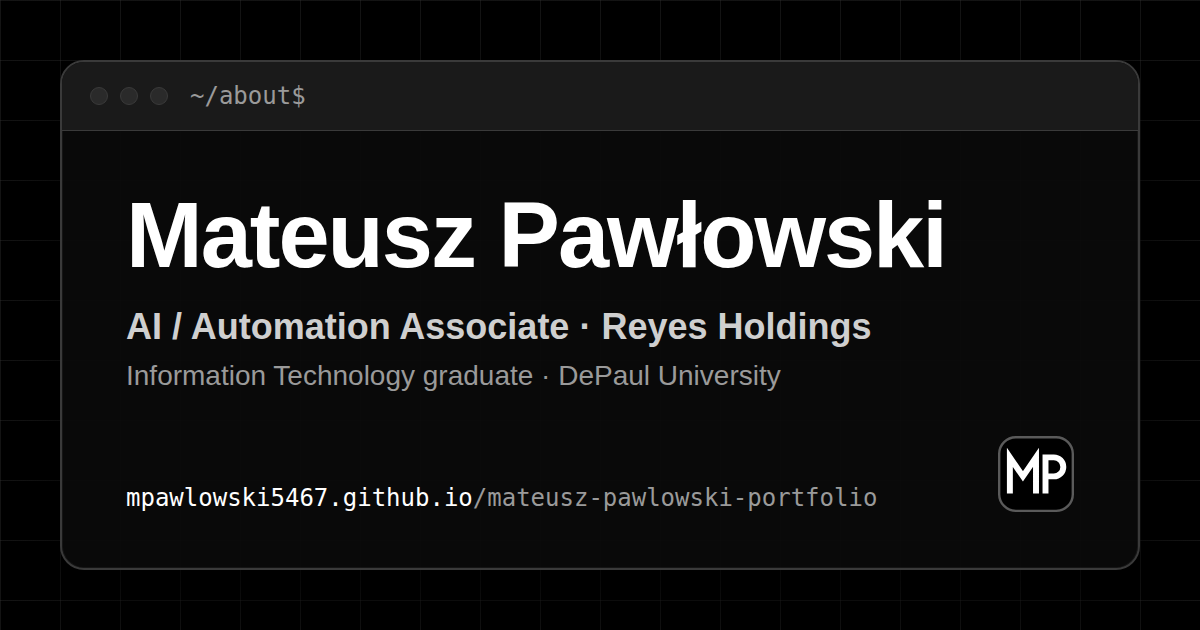
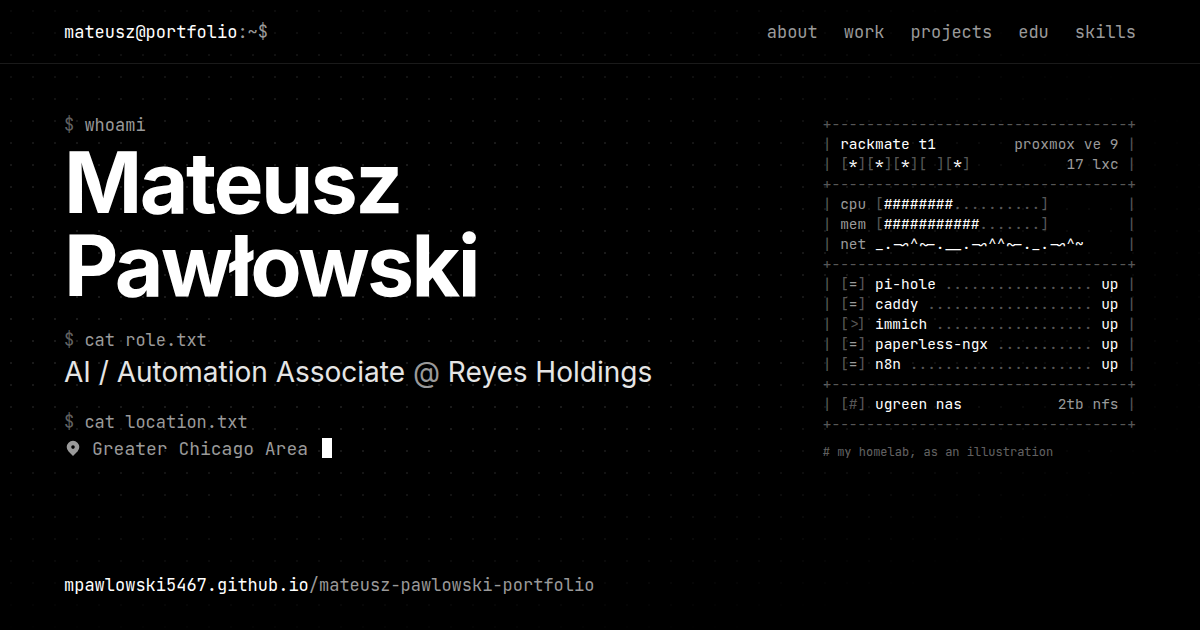
Add Reyes work projects and remake the link preview image
- Work: list what I've built at Reyes Holdings under the role timeline
  (AR Logistics Invoice Automation, Supplier POS Request Portal,
  Purchase Order Invoice Parser, Price Promotion Request Workflow),
  each with a description and stack, in English and Polish.
- Link preview: rebuild scripts/og-image.html to mirror the new hero
  (top bar, shell intro, name, role, location, ASCII homelab rack, dot
  grid, Inter + JetBrains Mono) and regenerate public/og-image.png.
- Tests and README updated.

Claude-Session: https://claude.ai/code/session_01GFCh3edmcaY4hhGvcDV7Kc

diff --git a/scripts/og-image.html b/scripts/og-image.html
@@ -1,84 +1,105 @@
 <!doctype html>
 <!--
   Source for public/og-image.png, the preview card shown when the site link is shared
-  (LinkedIn, Slack, iMessage...). To regenerate after changing the text: open this file
-  in a browser with a 1200x630 viewport and take a screenshot, e.g. with Playwright:
+  (LinkedIn, Slack, iMessage...). It mirrors the site's hero. To regenerate after changing
+  the text (needs `npm install` first, for the fonts), screenshot it at 1200x630, e.g.:
     npx playwright screenshot --viewport-size=1200,630 scripts/og-image.html public/og-image.png
 -->
 <html lang="en">
 <head>
 <meta charset="UTF-8" />
+<link rel="stylesheet" href="../node_modules/@fontsource-variable/inter/index.css" />
+<link rel="stylesheet" href="../node_modules/@fontsource-variable/jetbrains-mono/index.css" />
 <style>
   * { box-sizing: border-box; margin: 0; }
-  html, body { width: 1200px; height: 630px; }
+  html, body { width: 1200px; height: 630px; overflow: hidden; }
   body {
+    position: relative;
     background: #000;
-    background-image:
-      linear-gradient(rgba(58, 58, 58, 0.35) 1px, transparent 1px),
-      linear-gradient(90deg, rgba(58, 58, 58, 0.35) 1px, transparent 1px);
-    background-size: 60px 60px;
-    font-family: 'Inter', 'Liberation Sans', Arial, sans-serif;
     color: #E5E5E5;
-    display: flex;
-    align-items: center;
-    justify-content: center;
+    font-family: 'Inter Variable', Inter, system-ui, sans-serif;
+    -webkit-font-smoothing: antialiased;
   }
-  .window {
-    width: 1080px;
-    height: 510px;
-    border: 2px solid #3A3A3A;
-    border-radius: 24px;
-    background: rgba(10, 10, 10, 0.92);
-    box-shadow: 0 30px 80px rgba(0, 0, 0, 0.8), 0 0 0 1px rgba(255, 255, 255, 0.05) inset;
-    overflow: hidden;
-    display: flex;
-    flex-direction: column;
+  .mono { font-family: 'JetBrains Mono Variable', 'JetBrains Mono', ui-monospace, monospace; }
+  .grid {
+    position: absolute; inset: 0;
+    background-image: radial-gradient(rgba(255, 255, 255, 0.10) 1px, transparent 1px);
+    background-size: 22px 22px;
+    -webkit-mask-image: radial-gradient(ellipse at 30% 45%, #000 30%, transparent 78%);
+    mask-image: radial-gradient(ellipse at 30% 45%, #000 30%, transparent 78%);
   }
-  .titlebar {
-    background: #1A1A1A;
-    border-bottom: 1px solid #3A3A3A;
-    padding: 20px 28px;
-    display: flex;
-    align-items: center;
-    gap: 22px;
+  header {
+    position: relative; height: 64px; padding: 0 64px;
+    display: flex; align-items: center; justify-content: space-between;
+    border-bottom: 1px solid rgba(255, 255, 255, 0.1);
+    font-size: 17px;
   }
-  .dots { display: flex; gap: 12px; }
-  .dots span { width: 18px; height: 18px; border-radius: 50%; background: #2A2A2A; border: 1px solid #3A3A3A; }
-  .mono { font-family: 'JetBrains Mono', 'DejaVu Sans Mono', monospace; }
-  .prompt { font-size: 24px; color: #9A9A9A; }
-  .body { flex: 1; padding: 56px 64px; display: flex; flex-direction: column; justify-content: space-between; }
-  h1 { font-size: 92px; font-weight: 800; letter-spacing: -2px; color: #fff; line-height: 1.05; }
-  .role { font-size: 36px; color: #CFCFCF; margin-top: 22px; font-weight: 600; }
-  .sub { font-size: 28px; color: #9A9A9A; margin-top: 12px; }
-  .footer { display: flex; justify-content: space-between; align-items: flex-end; }
-  .url { font-size: 24px; color: #9A9A9A; }
-  .url b { color: #fff; font-weight: 400; }
-  .logo { width: 76px; height: 76px; }
+  header .logo { color: #fff; }
+  header .logo span { color: #9A9A9A; }
+  header nav { display: flex; gap: 26px; color: #9A9A9A; }
+  main {
+    position: relative; padding: 50px 64px 0;
+    display: grid; grid-template-columns: 1fr auto; gap: 40px; align-items: center;
+  }
+  .cmd { font-size: 17px; color: #9A9A9A; }
+  .cmd b { color: rgba(255, 255, 255, 0.4); font-weight: 400; }
+  h1 { font-size: 84px; line-height: 0.98; font-weight: 700; letter-spacing: -2.5px; color: #fff; margin: 6px 0 22px; }
+  .role { font-size: 28px; color: #E5E5E5; margin: 4px 0 22px; }
+  .role span { color: #9A9A9A; }
+  .loc { font-size: 18px; color: #9A9A9A; display: flex; align-items: center; gap: 10px; margin-top: 4px; }
+  .cursor { display: inline-block; width: 10px; height: 20px; background: #fff; margin-left: 4px; }
+  pre { font-size: 14.5px; line-height: 1.38; }
+  pre .f { color: rgba(255, 255, 255, 0.35); }
+  pre .l { color: #9A9A9A; }
+  pre .v { color: #fff; }
+  .caption { margin-top: 10px; font-size: 12px; color: rgba(255, 255, 255, 0.4); }
+  footer {
+    position: absolute; left: 64px; right: 64px; bottom: 34px;
+    font-size: 17px; color: #9A9A9A;
+  }
+  footer b { color: #fff; font-weight: 400; }
 </style>
 </head>
 <body>
-  <div class="window">
-    <div class="titlebar">
-      <div class="dots"><span></span><span></span><span></span></div>
-      <span class="prompt mono">~/about$</span>
+  <div class="grid"></div>
+  <header class="mono">
+    <div class="logo">mateusz@portfolio<span>:~$</span></div>
+    <nav><span>about</span><span>work</span><span>projects</span><span>edu</span><span>skills</span></nav>
+  </header>
+  <main>
+    <div>
+      <p class="cmd mono"><b>$</b> whoami</p>
+      <h1>Mateusz<br />Pawłowski</h1>
+      <p class="cmd mono"><b>$</b> cat role.txt</p>
+      <p class="role">AI / Automation Associate <span>@</span> Reyes Holdings</p>
+      <p class="cmd mono"><b>$</b> cat location.txt</p>
+      <p class="loc mono">
+        <svg width="18" height="18" fill="#9A9A9A" viewBox="0 0 20 20" aria-hidden="true"><path fill-rule="evenodd" d="M5.05 4.05a7 7 0 119.9 9.9L10 18.9l-4.95-4.95a7 7 0 010-9.9zM10 11a2 2 0 100-4 2 2 0 000 4z" clip-rule="evenodd" /></svg>
+        Greater Chicago Area<span class="cursor"></span>
+      </p>
     </div>
-    <div class="body">
-      <div>
-        <h1>Mateusz Pawłowski</h1>
-        <div class="role">AI / Automation Associate · Reyes Holdings</div>
-        <div class="sub">Information Technology graduate · DePaul University</div>
-      </div>
-      <div class="footer">
-        <span class="url mono"><b>mpawlowski5467.github.io</b>/mateusz-pawlowski-portfolio</span>
-        <svg class="logo" viewBox="0 0 64 64" aria-hidden="true">
-          <rect x="1" y="1" width="62" height="62" rx="14" fill="#000" stroke="#5A5A5A" stroke-width="2"/>
-          <g fill="none" stroke="#fff" stroke-width="5" stroke-linecap="square" stroke-linejoin="miter">
-            <path d="M10 46V18l11 16 11-16v28"/>
-            <path d="M40 46V18h7a8 8 0 0 1 0 16h-7"/>
-          </g>
-        </svg>
-      </div>
+    <div>
+<pre class="mono" aria-hidden="true"><span class="f">+----------------------------------+</span>
+<span class="f">| </span><span class="v">rackmate t1</span>         <span class="l">proxmox ve 9</span><span class="f"> |</span>
+<span class="f">| </span><span class="f">[</span><span class="v">*</span><span class="f">]</span><span class="f">[</span><span class="v">*</span><span class="f">]</span><span class="f">[</span><span class="v">*</span><span class="f">]</span><span class="f">[</span><span class="v"> </span><span class="f">]</span><span class="f">[</span><span class="v">*</span><span class="f">]</span>           <span class="l">17 lxc</span><span class="f"> |</span>
+<span class="f">+----------------------------------+</span>
+<span class="f">| </span><span class="l">cpu </span><span class="f">[</span><span class="v">########</span><span class="f">..........</span><span class="f">]</span>        <span class="f"> |</span>
+<span class="f">| </span><span class="l">mem </span><span class="f">[</span><span class="v">###########</span><span class="f">.......</span><span class="f">]</span>        <span class="f"> |</span>
+<span class="f">| </span><span class="l">net </span><span class="v">_.-~^~-.__.-~^^~-._.-~^~</span>    <span class="f"> |</span>
+<span class="f">+----------------------------------+</span>
+<span class="f">| </span><span class="f">[</span><span class="l">=</span><span class="f">] </span><span class="v">pi-hole</span><span class="f"> ................. </span><span class="v">up</span><span class="f"> |</span>
+<span class="f">| </span><span class="f">[</span><span class="l">=</span><span class="f">] </span><span class="v">caddy</span><span class="f"> ................... </span><span class="v">up</span><span class="f"> |</span>
+<span class="f">| </span><span class="f">[</span><span class="v">&gt;</span><span class="f">] </span><span class="v">immich</span><span class="f"> .................. </span><span class="v">up</span><span class="f"> |</span>
+<span class="f">| </span><span class="f">[</span><span class="l">=</span><span class="f">] </span><span class="v">paperless-ngx</span><span class="f"> ........... </span><span class="v">up</span><span class="f"> |</span>
+<span class="f">| </span><span class="f">[</span><span class="l">=</span><span class="f">] </span><span class="v">n8n</span><span class="f"> ..................... </span><span class="v">up</span><span class="f"> |</span>
+<span class="f">+----------------------------------+</span>
+<span class="f">| </span><span class="f">[#] </span><span class="v">ugreen nas</span>           <span class="l">2tb nfs</span><span class="f"> |</span>
+<span class="f">+----------------------------------+</span></pre>
+      <p class="caption mono"># my homelab, as an illustration</p>
     </div>
-  </div>
+  </main>
+  <footer class="mono">
+    <span><b>mpawlowski5467.github.io</b>/mateusz-pawlowski-portfolio</span>
+  </footer>
 </body>
 </html>

diff --git a/src/i18n.js b/src/i18n.js
@@ -42,6 +42,29 @@ export const translations = {
       roles: [
         { title: 'AI / Automation Associate', type: 'Full-time', date: 'Jun 2026 – Present', current: true },
         { title: 'AI Intern', type: 'Internship', date: 'Jun 2024 – Jun 2026' }
+      ],
+      projectsTitle: "What I've built at Reyes",
+      projects: [
+        {
+          name: 'AR Logistics Invoice Automation',
+          desc: 'The finance team needed to generate weekly freight invoices and match them with proof-of-delivery documents. I built a skill that users trigger by emailing a spreadsheet to an allowlisted address. It classifies each load as standard or return (dunnage), checks POD requirements, pulls PODs from the TMS API, and returns a packaged archive with a summary report.',
+          tags: ['OneReach.ai', 'JavaScript/Node.js', 'E2Open TMS API', 'Email gateway']
+        },
+        {
+          name: 'Supplier POS Request Portal',
+          desc: 'I built a customer-facing web portal where supplier users sign in and submit point-of-sale material requests. Account search runs server-side across 515K records, and each request is written to the data warehouse before the confirmation email is sent, so no request gets lost.',
+          tags: ['JavaScript', 'Power Pages', 'OneReach.ai', 'Snowflake', 'PostgreSQL', 'Azure/MSAL']
+        },
+        {
+          name: 'Purchase Order Invoice Parser',
+          desc: 'This tool turns raw supplier balance sheets into structured, per-PO invoices. It was first built for one brand, and I refactored it into a registry-based design so each new brand only needs a product template.',
+          tags: ['JavaScript', 'OneReach.ai', 'Excel/CSV parsing']
+        },
+        {
+          name: 'Price Promotion Request Workflow',
+          desc: 'This is a conversational workflow where suppliers submit pricing promotions. It calculates profitability metrics in Snowflake and posts a pricing grid to a supplier dashboard for the pricing team to review.',
+          tags: ['OneReach.ai', 'Snowflake SQL', 'Power Pages', 'MSAL/JWT']
+        }
       ]
     },
     projects: {
@@ -136,6 +159,29 @@ export const translations = {
       roles: [
         { title: 'Specjalista ds. AI i automatyzacji', type: 'Pełny etat', date: 'Czerwiec 2026 – obecnie', current: true },
         { title: 'Stażysta AI', type: 'Staż', date: 'Czerwiec 2024 – czerwiec 2026' }
+      ],
+      projectsTitle: 'Co zbudowałem w Reyes',
+      projects: [
+        {
+          name: 'Automatyzacja faktur logistycznych (AR)',
+          desc: 'Dział finansów musiał co tydzień generować faktury za fracht i dopasowywać je do potwierdzeń dostawy (POD). Zbudowałem skill, który użytkownicy uruchamiają, wysyłając arkusz kalkulacyjny e-mailem na zatwierdzony adres. Klasyfikuje każdy ładunek jako standardowy lub zwrotny (dunnage), sprawdza wymagania dotyczące POD, pobiera dokumenty POD z API systemu TMS i odsyła spakowane archiwum z raportem podsumowującym.',
+          tags: ['OneReach.ai', 'JavaScript/Node.js', 'E2Open TMS API', 'Bramka e-mail']
+        },
+        {
+          name: 'Portal zamówień materiałów POS dla dostawców',
+          desc: 'Zbudowałem portal internetowy dla klientów, w którym użytkownicy po stronie dostawców logują się i składają zamówienia na materiały POS (point-of-sale). Wyszukiwanie kont działa po stronie serwera na 515 tys. rekordów, a każde zamówienie jest zapisywane w hurtowni danych przed wysłaniem e-maila z potwierdzeniem, więc żadne zamówienie nie ginie.',
+          tags: ['JavaScript', 'Power Pages', 'OneReach.ai', 'Snowflake', 'PostgreSQL', 'Azure/MSAL']
+        },
+        {
+          name: 'Parser faktur do zamówień (PO)',
+          desc: 'Narzędzie zamienia surowe zestawienia sald od dostawców na uporządkowane faktury dla każdego zamówienia (PO). Najpierw powstało dla jednej marki, a potem przebudowałem je na architekturę opartą na rejestrze, dzięki czemu każda nowa marka potrzebuje tylko szablonu produktu.',
+          tags: ['JavaScript', 'OneReach.ai', 'Parsowanie Excel/CSV']
+        },
+        {
+          name: 'Proces zgłaszania promocji cenowych',
+          desc: 'Konwersacyjny proces, w którym dostawcy zgłaszają promocje cenowe. Oblicza wskaźniki rentowności w Snowflake i publikuje siatkę cenową na panelu dostawcy, gdzie przegląda ją zespół cenowy.',
+          tags: ['OneReach.ai', 'Snowflake SQL', 'Power Pages', 'MSAL/JWT']
+        }
       ]
     },
     projects: {

diff --git a/src/components/Experience.jsx b/src/components/Experience.jsx
@@ -5,6 +5,7 @@ import { Section } from './Section.jsx'
 export function Experience() {
   const { t } = useContext(LanguageContext)
   const roles = t('experience.roles')
+  const projects = t('experience.projects')
 
   return (
     <Section id="experience" index={2} title={t('nav.experience')}>
@@ -38,6 +39,35 @@ export function Experience() {
             </li>
           ))}
         </ol>
+
+        {/* Things I've built at the company */}
+        <div className="mt-10 border-t border-white/10 pt-8">
+          <h4 className="mb-5 font-mono text-sm text-neutral">
+            <span aria-hidden="true">$ ls ~/work/reyes</span>
+            <span className="sr-only">{t('experience.projectsTitle')}</span>
+          </h4>
+          <ul className="grid gap-4 md:grid-cols-2">
+            {Array.isArray(projects) && projects.map((project, idx) => (
+              <li
+                key={project.name}
+                className="flex flex-col rounded-lg border border-white/10 bg-white/[0.02] p-5 transition-colors hover:border-white/30"
+              >
+                <p className="mb-2 font-mono text-xs text-neutral" aria-hidden="true">
+                  {String(idx + 1).padStart(2, '0')}
+                </p>
+                <h5 className="mb-2 text-lg font-semibold text-white">{project.name}</h5>
+                <p className="mb-4 text-[15px] leading-relaxed text-foreground/80">{project.desc}</p>
+                <ul className="mt-auto flex flex-wrap gap-2" aria-label="Stack">
+                  {project.tags?.map((tag) => (
+                    <li key={tag} className="rounded border border-white/15 px-2 py-0.5 font-mono text-xs text-neutral">
+                      {tag}
+                    </li>
+                  ))}
+                </ul>
+              </li>
+            ))}
+          </ul>
+        </div>
       </div>
     </Section>
   )

diff --git a/src/__tests__/App.test.jsx b/src/__tests__/App.test.jsx
@@ -44,6 +44,17 @@ describe('App', () => {
     expect(screen.queryByText(/onboarding chatbot/)).toBeNull()
   })
 
+  it('lists the projects built at Reyes under work, in both languages', () => {
+    render(<App />)
+    for (const name of ['AR Logistics Invoice Automation', 'Supplier POS Request Portal', 'Purchase Order Invoice Parser', 'Price Promotion Request Workflow']) {
+      expect(screen.getByRole('heading', { name })).toBeTruthy()
+    }
+
+    fireEvent.click(screen.getByRole('button', { name: 'Switch to Polish' }))
+
+    expect(screen.getByRole('heading', { name: 'Portal zamówień materiałów POS dla dostawców' })).toBeTruthy()
+  })
+
   it('shows a real last-updated date in the footer', () => {
     render(<App />)
     const footer = document.querySelector('footer')

diff --git a/README.md b/README.md
@@ -14,7 +14,7 @@ Outside of work I run a Proxmox homelab in a portable rack with 17 self-hosted s
 
 - **Hero**: name, role, and location, typed out like a shell session, next to an ASCII drawing of my homelab rack
 - **01 about**: short bio (mostly homelab) and interests
-- **02 work**: my roles at Reyes Holdings, from AI intern to AI / Automation Associate
+- **02 work**: my roles at Reyes Holdings, from AI intern to AI / Automation Associate, and the automations and tools I've built there
 - **03 projects**: Loom, SportsDash, and Argus, with screenshots
 - **04 edu**: DePaul University and Harper College
 - **05 skills**: my stack, shown as a `skills.json` file
@@ -64,12 +64,13 @@ Then open the URL Vite prints (<http://localhost:5173> by default).
 ## Updating content
 
 - **Text**: all the wording lives in [`src/i18n.js`](src/i18n.js), in both English (`en`) and Polish (`pl`). Update both when you change something. That covers the hero, bio, interests, roles and dates, projects, education, and footer.
+- **Work projects**: the things I've built at Reyes are under `experience.projects` in `src/i18n.js` (`name`, `desc`, `tags`).
 - **Projects**: each project in `src/i18n.js` has `name`, `tagline`, `desc`, `tags`, `link` (the repo, shown as the **source** link), an optional `demo` (a live site, shown as a **live demo** link), and an `image` in [`public/projects/`](public/projects/) (1280×720 WebP).
 - **Skills**: the groups and items, with their icons, are at the top of [`src/components/Skills.jsx`](src/components/Skills.jsx). Icons come from `simple-icons`; anything missing there gets a short text mark, or a custom path in [`src/customIcons.js`](src/customIcons.js).
 - **Homelab rack**: the service names and hardware labels are in [`src/components/HomelabRack.jsx`](src/components/HomelabRack.jsx).
 - **Contact links**: in [`src/links.js`](src/links.js), used by the hero and the footer.
 - **Footer date**: "last updated" is filled in automatically from the date of the latest commit when the site is built.
-- **Link preview**: the image shown when the link is shared is [`public/og-image.png`](public/og-image.png), generated from [`scripts/og-image.html`](scripts/og-image.html) (instructions inside). The title and description are in [`index.html`](index.html).
+- **Link preview**: the image shown when the link is shared is [`public/og-image.png`](public/og-image.png), generated from [`scripts/og-image.html`](scripts/og-image.html), which mirrors the hero (instructions inside). The title and description are in [`index.html`](index.html).
 
 ## Deployment
 
